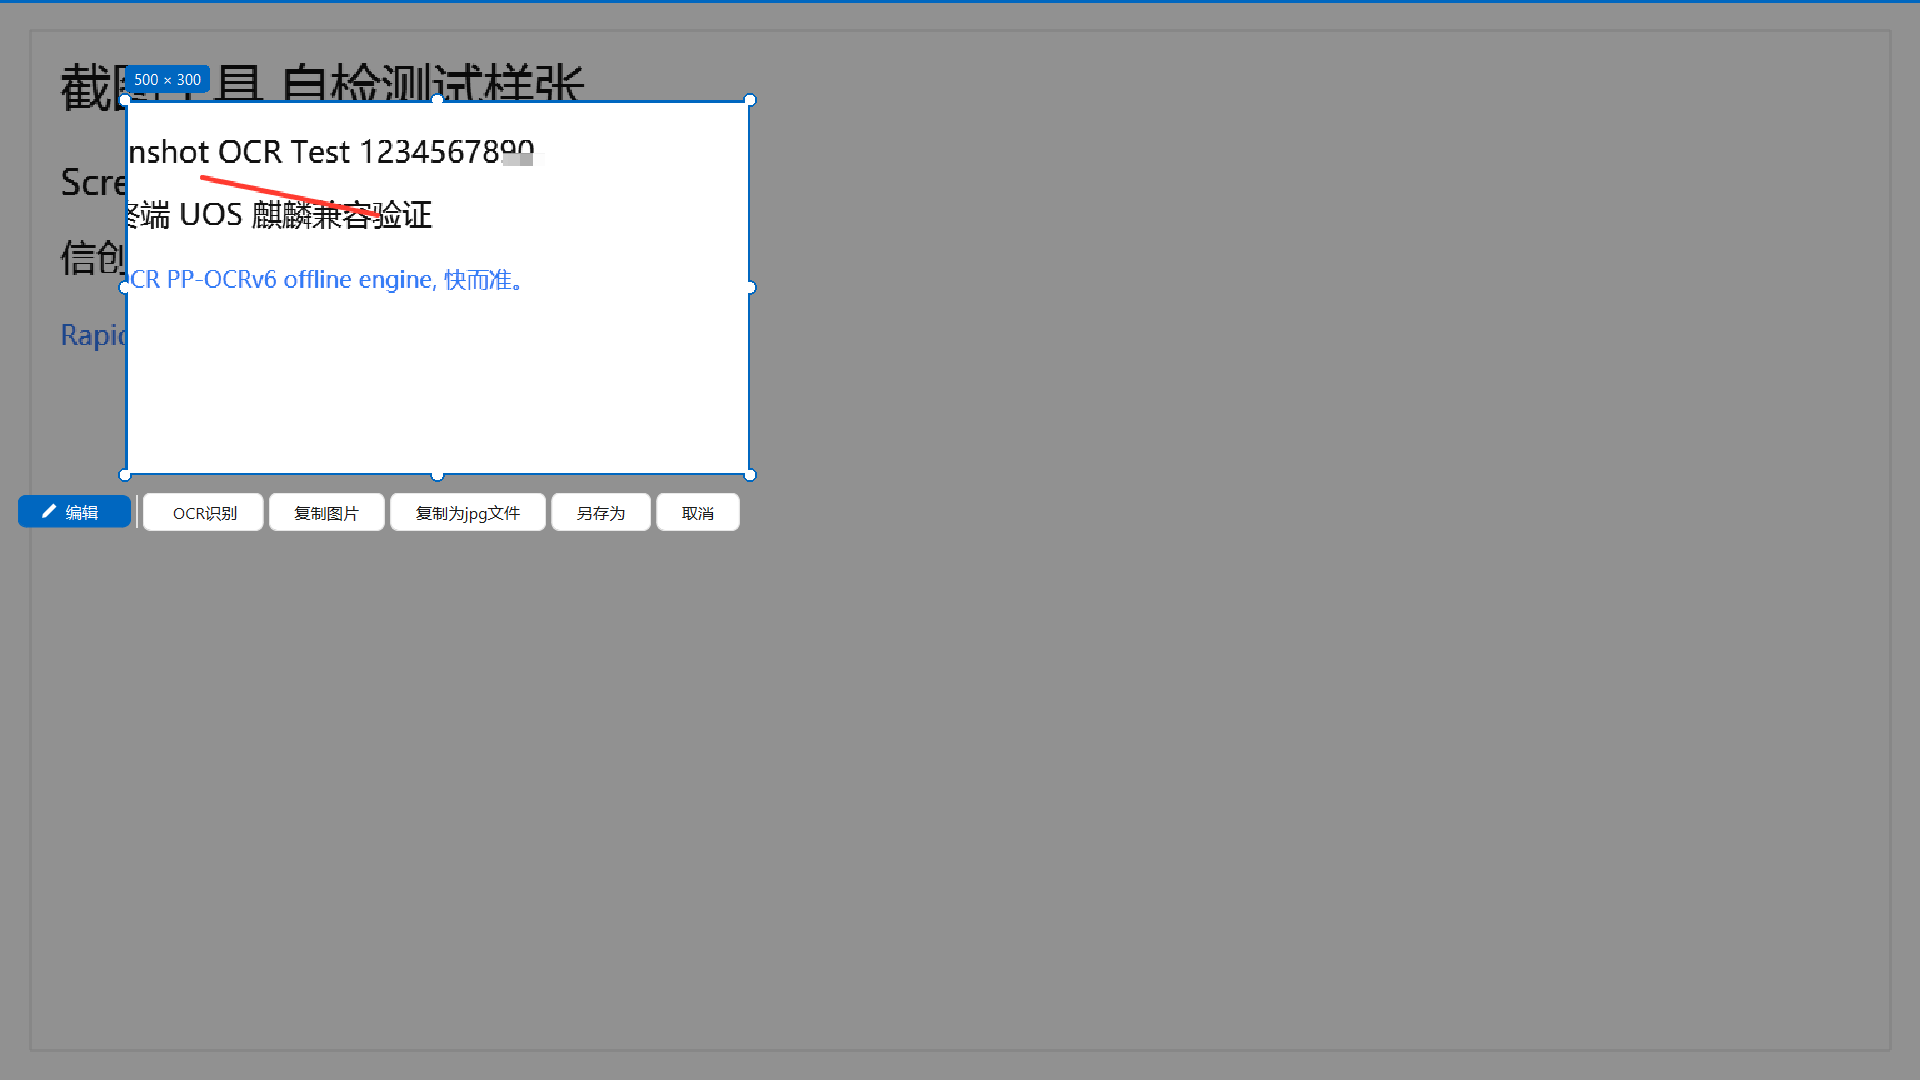
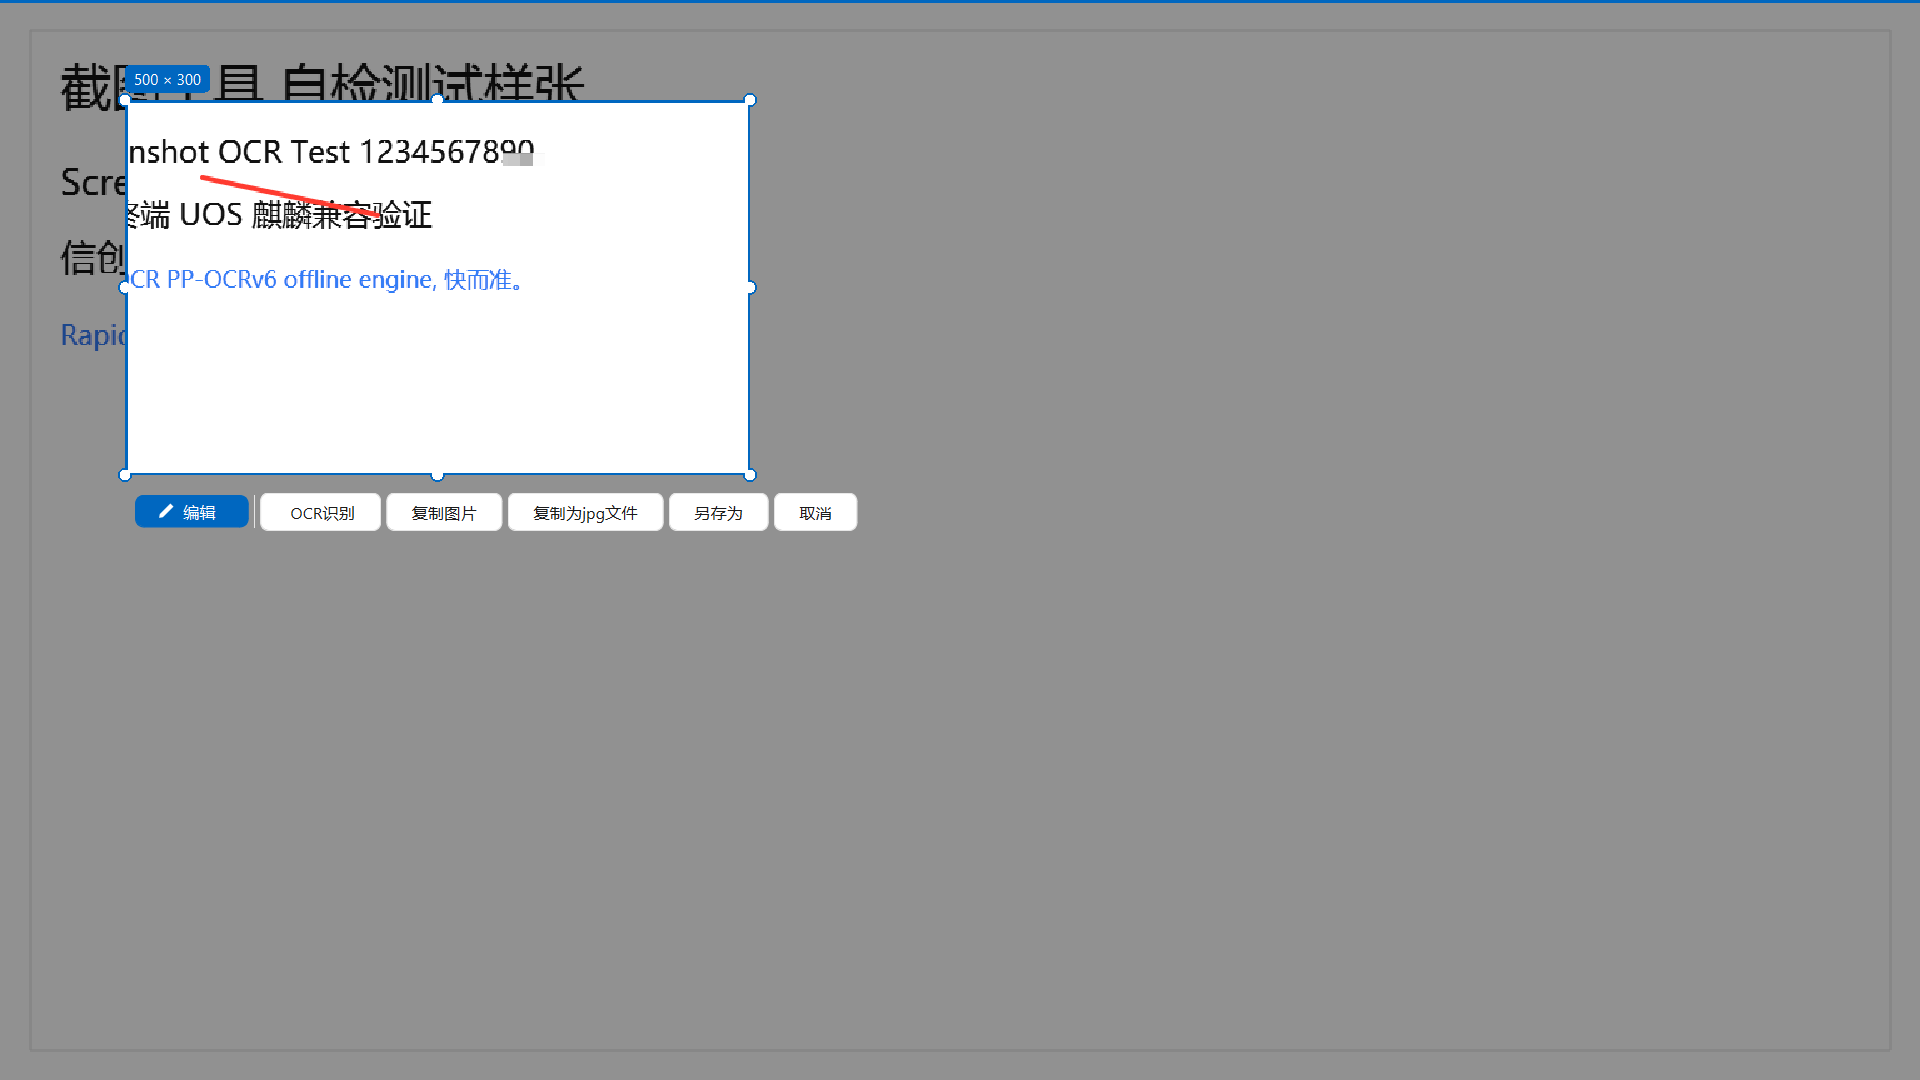
fix(ui): anchor editor toolbar to the selection's left edge
Clicking the text tool added three dropdowns (size/weight/font), widening
the toolbar from 633 to 882 px. Placement used sel.right() - width, so
the left edge jumped 249 px to the left - the whole toolbar visibly
darted sideways on every tool switch.

Anchor to sel.left() instead: width changes now extend to the right and
the left edge stays put. Measured with the selection centred, left-aligned
and narrow (all +0 px); a selection hugging the right edge still gets
clamped back on-screen, which is the accepted trade-off (the alternative
would be a toolbar that runs off the display).

Probe Z10 guards the invariant (left edge unchanged on switch, plus a
sanity check that the text tool really is wider so the case stays
meaningful). Probes 196 -> 199. docs/03 documents the anchoring.

Note: round33_suite.run() now unpacks ctx.cfg (was passed but unused).

Changed region(s): [[0.0, 0.4583, 0.4688, 0.4889]]

diff --git a/scripts/probes/round33_suite.py b/scripts/probes/round33_suite.py
@@ -61,6 +61,7 @@ def run(ctx):
     scr = ctx.scr
     check = ctx.check
     skip = ctx.skip
+    cfg = ctx.cfg  # 配置已由主探针重定向到 .tmp，构造窗口可安全复用
     cfg_path = ctx.cfg_path  # 已重定向到 .tmp/probe_config.json
     from snapocr import i18n as _i18n
     from snapocr.tests.selftest import _sample_image
@@ -966,3 +967,38 @@ def run(ctx):
     check("Z9a 色板色谱预置当前色", z9a)
     check("Z9b 色板色相条预置当前色相", z9b)
     check("Z9c 色板高亮当前标准色", z9c)
+
+    # ---- Z10 工具条左边缘稳定（2026-10-26 用户反馈）----
+    # 文字工具会多出字号/字重/字体三个下拉，工具条宽度 633 → 882px。
+    # 旧实现按 sel.right()-宽度 右对齐，左边缘随宽度左移 249px（点「文字」整条工具栏往左蹿）。
+    # 修复：改为左边缘对齐选区左边缘，宽度变化只向右扩展。
+    from PyQt5.QtCore import QRectF as _QRectF
+
+    from snapocr.ui.editor import TOOL_PEN as _TP
+    from snapocr.ui.editor import TOOL_TEXT as _TT
+
+    _ov = OverlayWindow(scr, QPixmap.fromImage(_sample_image(800, 600)), cfg)
+    _ov.show()
+    app.processEvents()
+    _ov.start()
+    app.processEvents()
+    _ov.sel = _QRectF(300, 200, 600, 400)  # 居中，保证不触发 clamp
+    _ov._reposition_toolbar()
+    app.processEvents()
+    _x_pen = _ov.toolbar.x()
+    _w_pen = _ov.toolbar.width()
+    _ov.toolbar.set_tool(_TT)
+    _ov._reposition_toolbar()
+    app.processEvents()
+    _x_text = _ov.toolbar.x()
+    _w_text = _ov.toolbar.width()
+    _ov.toolbar.set_tool(_TP)
+    _ov._reposition_toolbar()
+    app.processEvents()
+    _x_back = _ov.toolbar.x()
+    check("Z10a 切文字工具左边缘不变", _x_pen == _x_text)
+    check("Z10b 切回画笔左边缘不变", _x_pen == _x_back)
+    check("Z10c 文字态确实更宽（用例有效）", _w_text > _w_pen)
+    _ov.hide()
+    _ov.deleteLater()
+    app.processEvents()

diff --git a/src/snapocr/ui/overlay.py b/src/snapocr/ui/overlay.py
@@ -290,12 +290,18 @@ class OverlayWindow(QWidget):
     def _reposition_toolbar(self, h_override=None):
         """把工具条放到选区下方；空间不足翻到上方，都不够则贴屏幕底边。
 
+        **左边缘锚定**（2026-10-26 用户反馈）：此前按 `sel.right() - 工具条宽度`
+        右对齐，而文字工具会多出字号/字重/字体三个下拉（实测 633 → 882px，
+        宽 249px），左边缘随宽度跳变，点一下「文字」整条工具栏就往左蹿——体验很差。
+        改为左边缘对齐选区左边缘后，宽度变化只向右扩展，左边缘稳定。
+        取舍：选区靠屏幕右侧时仍会被 clamp 推回（否则出屏），此时位置会动。
+
         h_override：展开/折叠动画期间传入"目标总高"，位置一次性按最终高度定点，
         避免动画中途因高度增长而把工具条翻转位置造成抖动。
         """
         ts_w = self.toolbar.width()
         ts_h = self.toolbar.height() if h_override is None else h_override
-        x = self.sel.right() - ts_w
+        x = self.sel.left()
         x = max(4, min(x, self.width() - ts_w - 4))
         y = self.sel.bottom() + 8
         if y + ts_h > self.height() - 4:

diff --git a/docs/07-测试计划与加固方案.md b/docs/07-测试计划与加固方案.md
@@ -69,7 +69,7 @@
 | `scripts/gate.py`（+ 根目录 `check.bat`） | **一键门禁**：格式 + 静态检查 + 编译 + 单测 + 下方全部探针 | 7 项 |
 | `scripts/test_unit.py` | **单元测试**（零依赖 runner，pytest 可收集）：i18n 键对齐/回落、换行三态、配置脏类型、路径兜底、放大镜矩形几何 | 16 项 |
 | `scripts/test_plan_probe.py` | 原测试计划 T1/T2/T4 的崩溃、回归、安全守住项 | 21 项 |
-| `scripts/test_fix_probe.py` | 《问题与优化总表》中标注"需修复"条目的行为验证（线程回收、HiDPI WYSIWYG 像素级、单实例三态、设置窗与配置、spec 瘦身过滤、主题渲染、`--exit` 子进程等） | 196 项（其中 2 项依赖"无实例"前置、4 项需 dpr≠1 屏幕，不满足时 `SKIP`） |
+| `scripts/test_fix_probe.py` | 《问题与优化总表》中标注"需修复"条目的行为验证（线程回收、HiDPI WYSIWYG 像素级、单实例三态、设置窗与配置、spec 瘦身过滤、主题渲染、`--exit` 子进程等） | 199 项（其中 2 项依赖"无实例"前置、4 项需 dpr≠1 屏幕，不满足时 `SKIP`） |
 | `src/run.py --selftest` | 模型/引擎端到端与主要界面构件 | 11 项 |
 
 > 探针的副作用隔离约定：配置写入重定向到 `.tmp/probe_config.json`；`set_autostart` 在测试中被
@@ -85,7 +85,7 @@
    后者直接关掉用户正在运行的程序。测试必须无副作用。
 
 因此**禁止**用 `try_connect` 直接做"有没有实例"的探测，必须走 `_instance_running()`。
-正常（无实例）运行时这两项仍会真实执行，计数保持 196 项。
+正常（无实例）运行时这两项仍会真实执行，计数保持 199 项。
 
 
 > 代码规范以 `pyproject.toml` 的 ruff 配置为准；提交前必须 `check.bat` 全绿。

diff --git a/docs/03-使用说明.md b/docs/03-使用说明.md
@@ -55,7 +55,9 @@
 
 标注工具：**画笔 / 涂色(荧光笔) / 文字 / 矩形 / 椭圆 / 箭头 / 马赛克 / 橡皮擦**，
 配 8 色色板（**打开时高亮当前色、色谱光标停在当前颜色位置**）与线宽（文字工具时为字号与**字重**：细体/常规/粗体）选择——**画笔颜色跨会话记忆**（记住上次使用的颜色），
-**换区域重新框选后颜色/粗细/字号/字体沿用当前选择**，不回默认值；`Ctrl+Z / Ctrl+Y` 撤销重做，
+**换区域重新框选后颜色/粗细/字号/字体沿用当前选择**，不回默认值；
+工具条**左边缘对齐选区左边缘**——切换工具（文字工具会多出字号/字重/字体三个下拉）时
+位置不跳动，宽度变化只向右扩展；`Ctrl+Z / Ctrl+Y` 撤销重做，
 **「清空」一键清除全部标注**（撤销/重做栈为空时按钮自动置灰）；
 「OCR识别」识别**所见即所得的画面**（含标注）：马赛克盖住的内容不会被读出，
 画笔/涂色盖住的文字同样识别不到——屏幕上看到什么，OCR 就读什么。

diff --git a/docs/04-构建与发布指南.md b/docs/04-构建与发布指南.md
@@ -160,7 +160,7 @@ ubuntu-24.04-arm 出 arm64 deb。打 tag `v*` 触发。
 ## 5. 发布核对清单
 
 - [ ] **`check.bat`（质量门禁）6/6 全绿** —— 覆盖格式检查、静态检查、语法编译、回归探针 21 项、
-      修复项探针 196 项（其中 2 项依赖"无实例"前置条件，开着托盘程序时会 `SKIP`）、端到端自检 11 项；
+      修复项探针 199 项（其中 2 项依赖"无实例"前置条件，开着托盘程序时会 `SKIP`）、端到端自检 11 项；
       标准以 `pyproject.toml` 的 ruff 配置为准（行宽 100、规则集 E/F/W/I/B/C4/SIM/RUF/UP）
 - [ ] 界面有改动时已重建画廊：`python src/run.py --gallery both`
 - [ ] `vc_redist.x64.exe` 已放入 `deploy/windows/`（否则干净系统首次 OCR 会崩）

diff --git a/README.md b/README.md
@@ -42,7 +42,7 @@ python -m venv .venv
 python scripts\download_models.py        # 构建机联网拉取模型到 resources/models
 dev.bat --selftest                       # 自检（OCR/遮罩/编辑器/剪贴板/UI截图）
 python scripts\test_plan_probe.py        # 回归守住项探针（21 项）
-python scripts\test_fix_probe.py         # 问题总表修复项验证探针（196 项）
+python scripts\test_fix_probe.py         # 问题总表修复项验证探针（199 项）
 deploy\windows\build_all.bat             # 产出绿色版 zip + 安装版 exe
 ```
 

diff --git a/docs/06-信创构建与部署指南.md b/docs/06-信创构建与部署指南.md
@@ -113,7 +113,7 @@ sudo apt install ./snapocr_1.0.0_amd64.deb
 snapocr --selftest          # 11 项全 PASS（模型/裁剪/撤销/剪贴板等）
 ldd /opt/snapocr/SnapOCR | grep -i "not found"   # 不应有缺失库
 python3 scripts/test_plan_probe.py    # 21 项回归探针（源码目录内执行）
-python3 scripts/test_fix_probe.py     # 196 项修复项探针（无实例在跑时全跑；否则 2 项 SKIP）
+python3 scripts/test_fix_probe.py     # 199 项修复项探针（无实例在跑时全跑；否则 2 项 SKIP）
 ```
 
 | 检查项 | 预期 |
